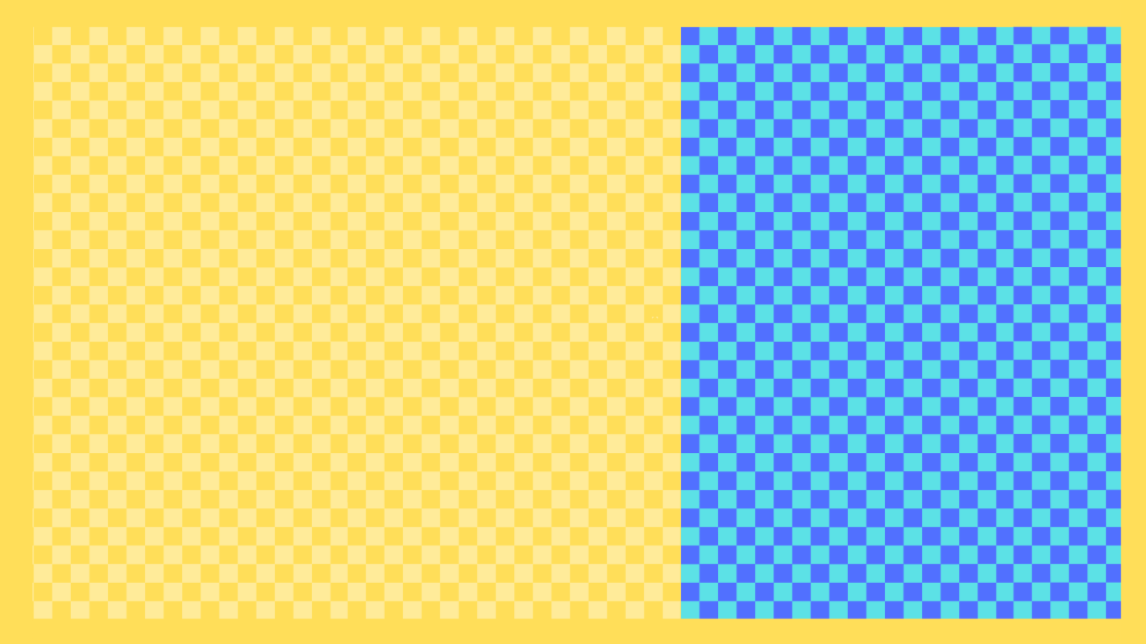
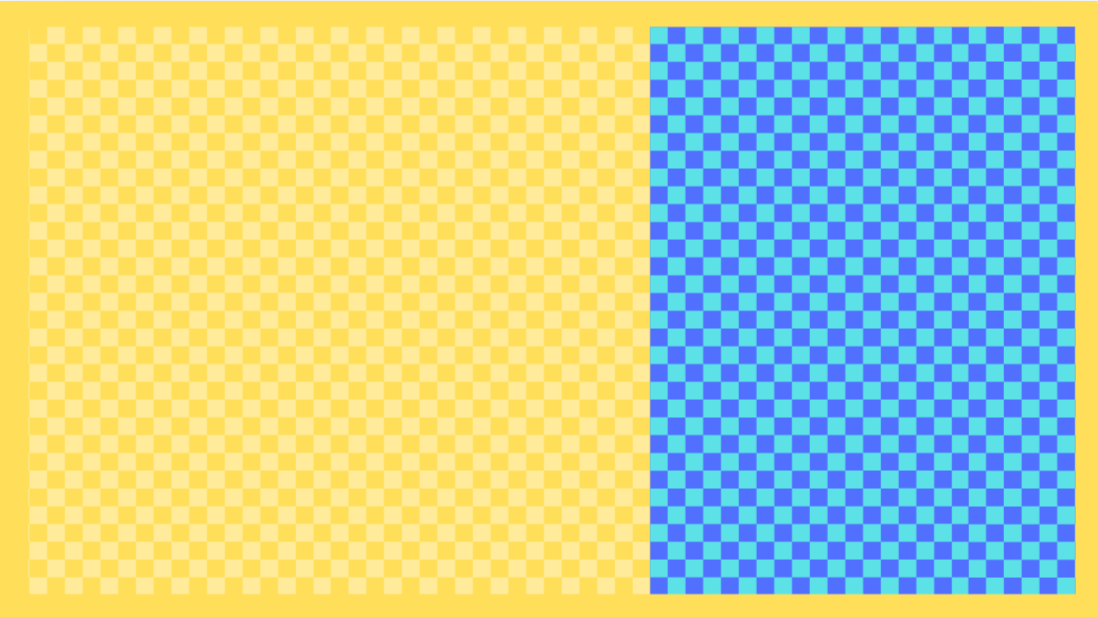
2nd main

diff --git a/mysprite.py b/mysprite.py
@@ -1,6 +1,7 @@
 import pygame
-from imagelist import ImageList
+from imagelist import Imagelist
 import debug
+import time
 
 class Mysprite():
     def __init__(self, x, y, w, h, images, screen):
@@ -11,12 +12,15 @@ class Mysprite():
         self._h = h
         self._images = images
         self._screen = screen
-
+        self._xd = 0
+        self._yd = 0
         self._current_frame = 0
         self._start_frame = 0
         self._end_frame = 0
         self._delay = -1
         self._repeat = False
+        self._next_move = time.time()
+        self._move_delay = 0
 
     def collide(self, other_rect):
        if isinstance(other_rect, pygame.Rect):
@@ -28,16 +32,83 @@ class Mysprite():
     def get_rect(self):
         return pygame.Rect(self._x, self._y, self._w, self._h)
 
-    def setup_anim(self, start_frame, end_frame, delay, repeat):
-        pass
+    def setup_anim(self, start_frame=0, end_frame=0, delay=0, repeat=False):
+        if start_frame >= 0 and start_frame < len(self._images.images):
+            self._start_frame = start_frame
+        if end_frame >= 0 and end_frame < len(self._images.images) and start_frame <= end_frame:
+            self._end_frame = end_frame
+        if delay > 0:
+            self._delay = delay
+        if repeat:
+            self._repeat = True
+        else:
+            self._repeat = False
 
-    def animate(self):
-        pass
+        self._next_frame = time.time() + delay
+
+    def animate(self, reset_animation = False):
+        #If we're animating
+        if not self._delay == -1:
+            #if we're resetting
+            if reset_animation == True:
+                self._current_frame = self._start_frame
+            else:
+                if time.time() > self._next_frame:
+                    #go to out next frame
+                    if self._current_frame < self._end_frame:
+                        self._current_frame += 1
+                    elif self._repeat == True:
+                        self._current_frame = self._start_frame
+                    # push out the next frame time
+                    self._next_frame = self._next_frame + self._delay
+        print(self._current_frame)
 
     def draw(self):
-        self._screen.blit(self._images[self._current_frame])
-        screen.blit(image_obj.images[0], image_rect)
+        self._screen.blit(self._images.images[self._current_frame], self.get_rect())
+# internal get / set functions
+    def get_x(self):
+        return self._x
+    def set_x(self, x):
+        if x>= 0 and x<= self._screen.get_width():
+            self._x = x
+        elif x < 0:
+            self._x = 0
+        else:
+            self._x = self._screen.get_width() - 1
+    
+    def get_y(self):
+        return self._y
+    def set_y(self, y):
+        if y>= 0 and y<= self._screen.get_height():
+            self._x = y
+        elif y < 0:
+            self._x = 0
+        else:
+            self._x = self._screen.get_height() - 1
 
+    def set_position(self, x, y):
+        self.set_x(x)
+        self.set_y(y)
+
+    def move(self, x_delta = None, y_delta = None, move_delay = None):
+        if not x_delta is None:
+            self._xd = x_delta
+        if not y_delta is None:
+            self._ydn = y_delta
+        if not move_delay is None:
+            self._move_delay = move_delay
+            if not move_delay == self._move_delay:
+                self._next_move = time.time()
+
+        if time.time() > self._next_move:
+            self.set_x(self.x + self._xd)
+            self.set_x(self.y + self._yd)
+            self._next_move += self._move_delay
+
+    x = property(get_x, set_x)
+    y = property(get_y, set_y)
+
+        
 debug.DEBUG_LEVEL = 2
 if __name__ == "__main__":
     TEST_X = 100
@@ -48,17 +119,28 @@ if __name__ == "__main__":
     pygame.init()
     screen = pygame.display.set_mode((500, 500), pygame.RESIZABLE)
     
-    image_obj = Imagelist("images\\test\\test", 200, 200)
+    image_obj = Imagelist("images\\enemy\\campfire", 200, 200)
     image_rect = pygame.Rect(TEST_X, TEST_Y, TEST_W, TEST_H)
 
+    spritelist = []
+    spritelist.append(Mysprite(TEST_X, TEST_Y, TEST_W, TEST_H, image_obj, screen))
+    spritelist[-1].setup_anim(0, 1, 2, True)
+    spritelist.append(Mysprite(TEST_X + TEST_W, TEST_Y, TEST_W, TEST_H, image_obj, screen))
+    spritelist[-1].setup_anim(0, 1, 2, True)
 
+    
     quitting = False
     while not quitting:
         for event in pygame.event.get():
             if event.type == pygame.QUIT:
                 quitting = True
+            
+        screen.fill((0, 0, 0))
 
-        screen.blit(image_obj.images[0], image_rect)
+        for sprite in spritelist:
+            sprite.draw()
+            sprite.animate()
+            sprite.move(0.1, 0, 0.5)
 
         pygame.display.flip()
     

diff --git a/main2.py b/main2.py
@@ -22,7 +22,7 @@ pygame.display.set_caption("Snake Adventures")
 
 
 snake = pygame.Surface((33.1/2, 31.2/2))
-snake.fill((255, 117, 31))
+snake = pygame.transform.scale(pygame.image.load("images\\snake\\head0.png"), (33.1/2, 31/2))
 food = pygame.transform.scale(pygame.image.load("images\\food_img\\coconut0.png"), (31/2, 31/2))
 food_rect = food.get_rect(center=(0, 0))
 
